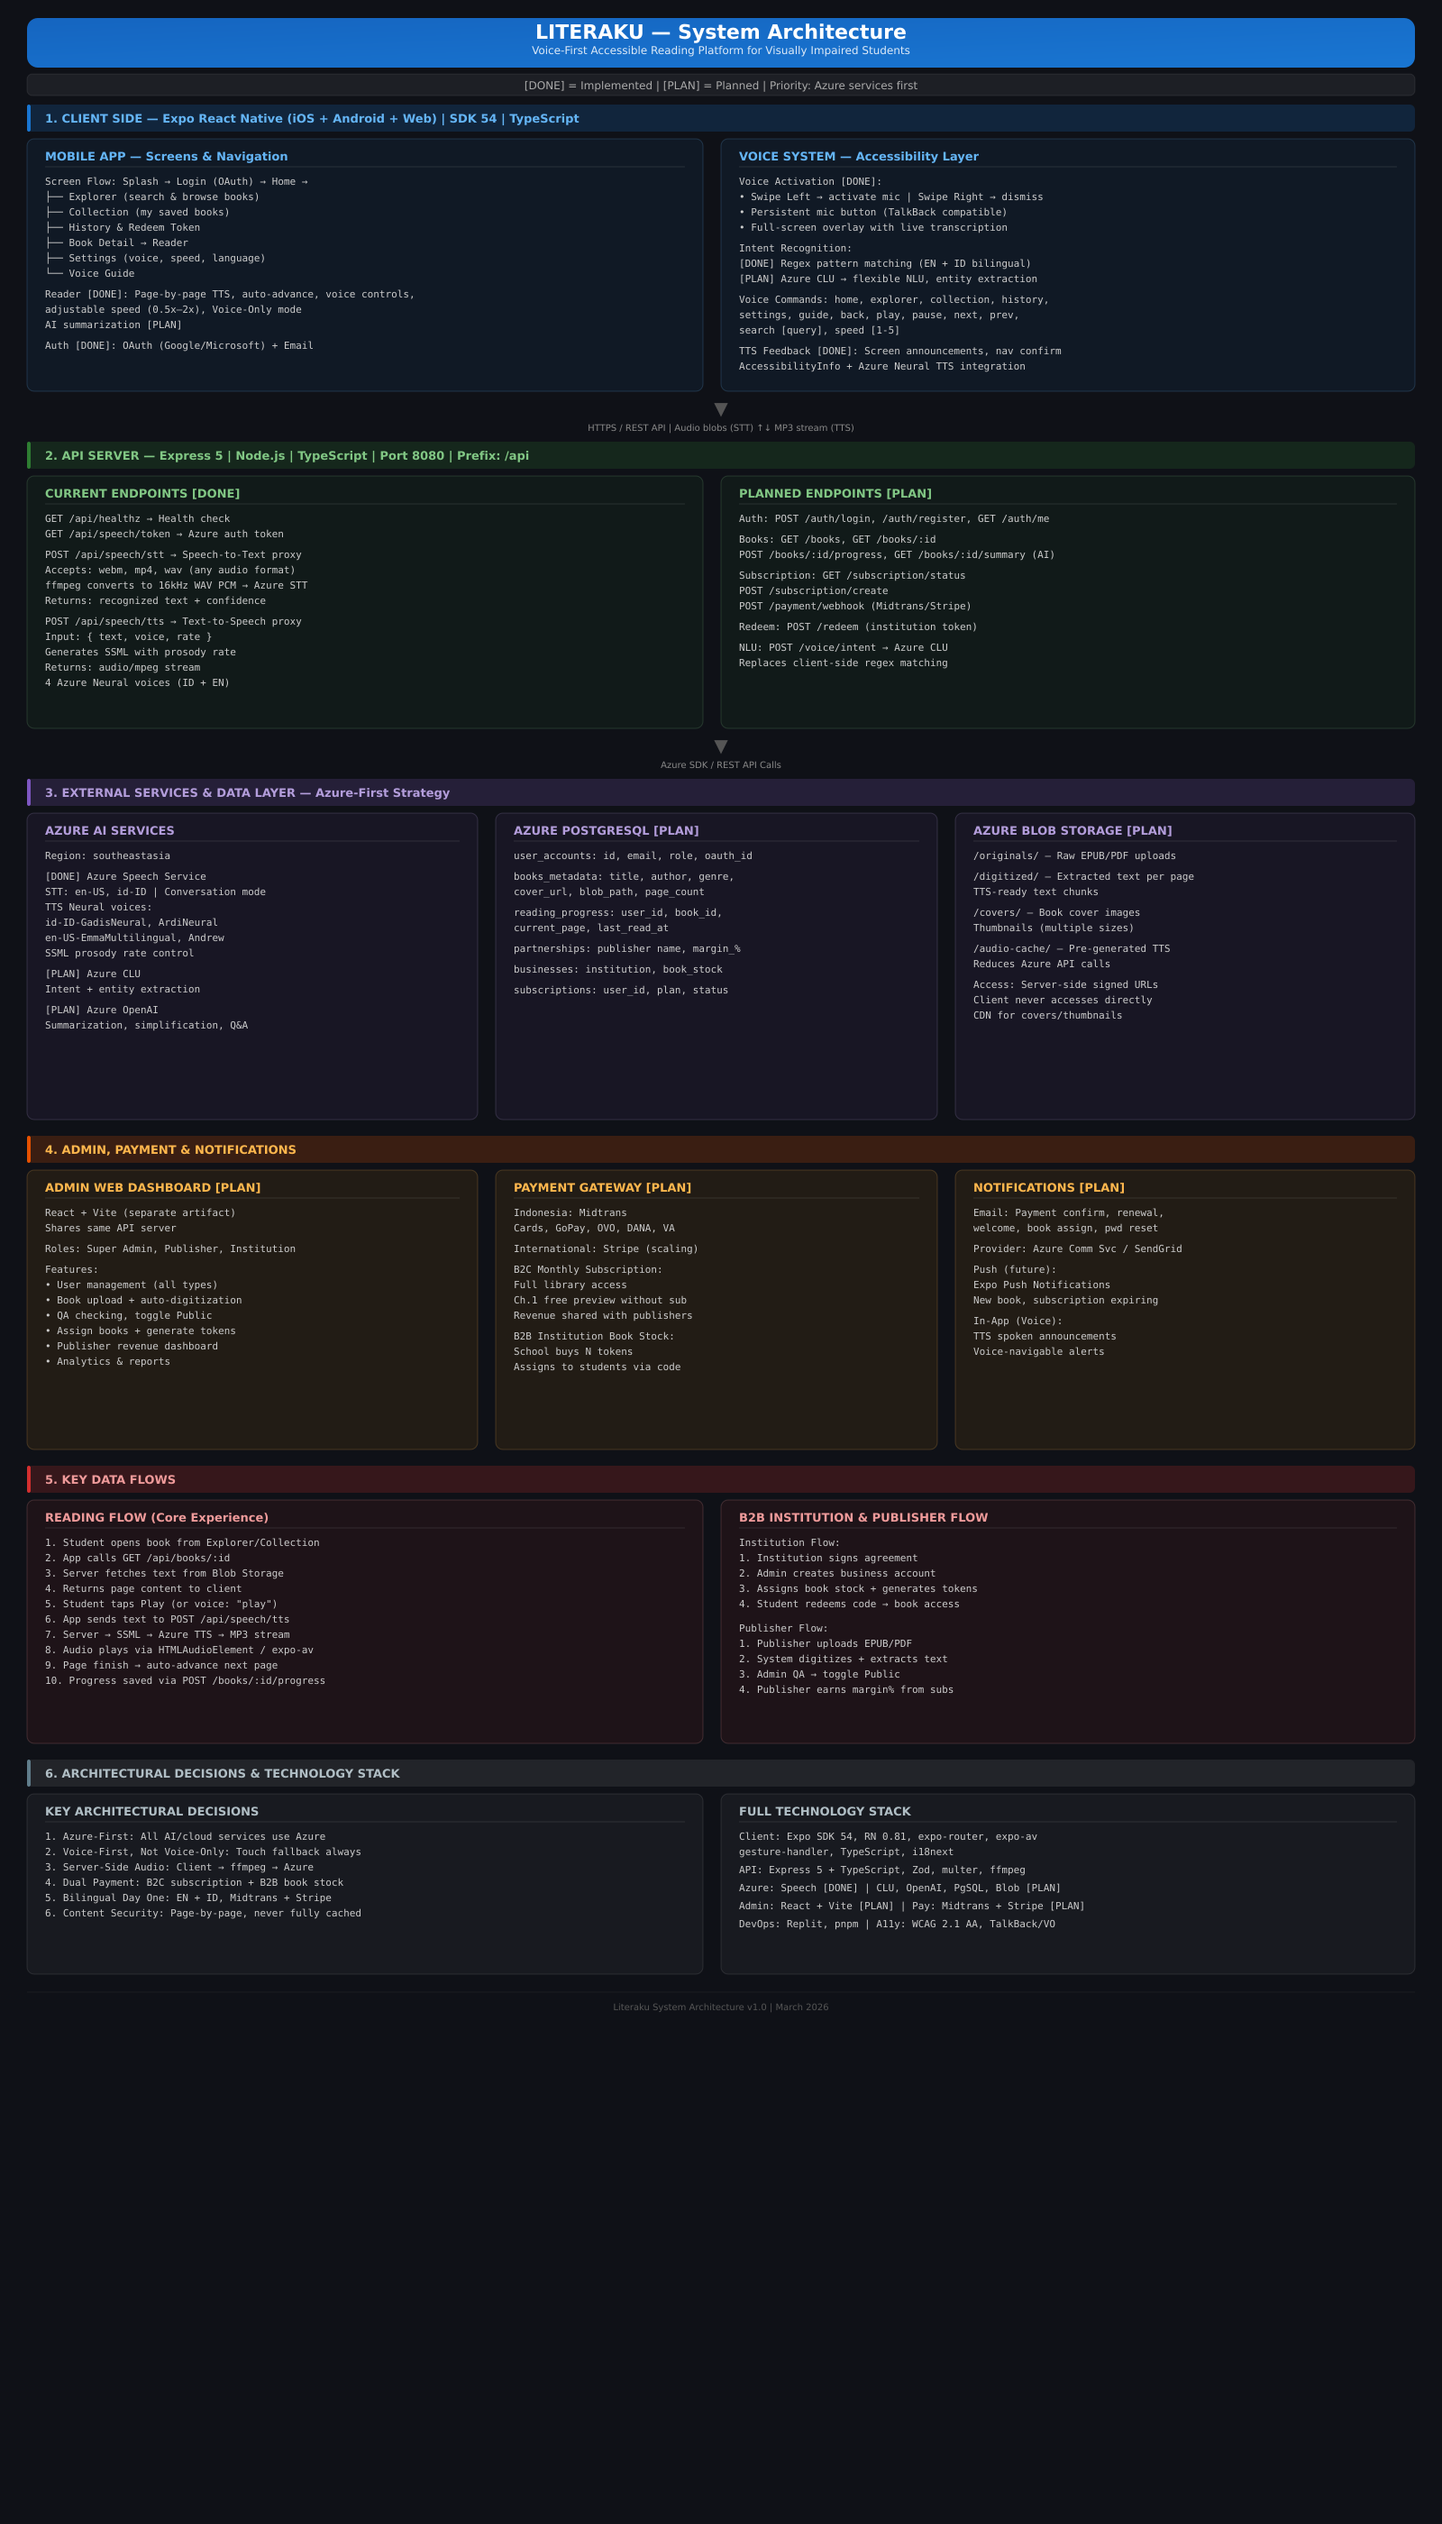
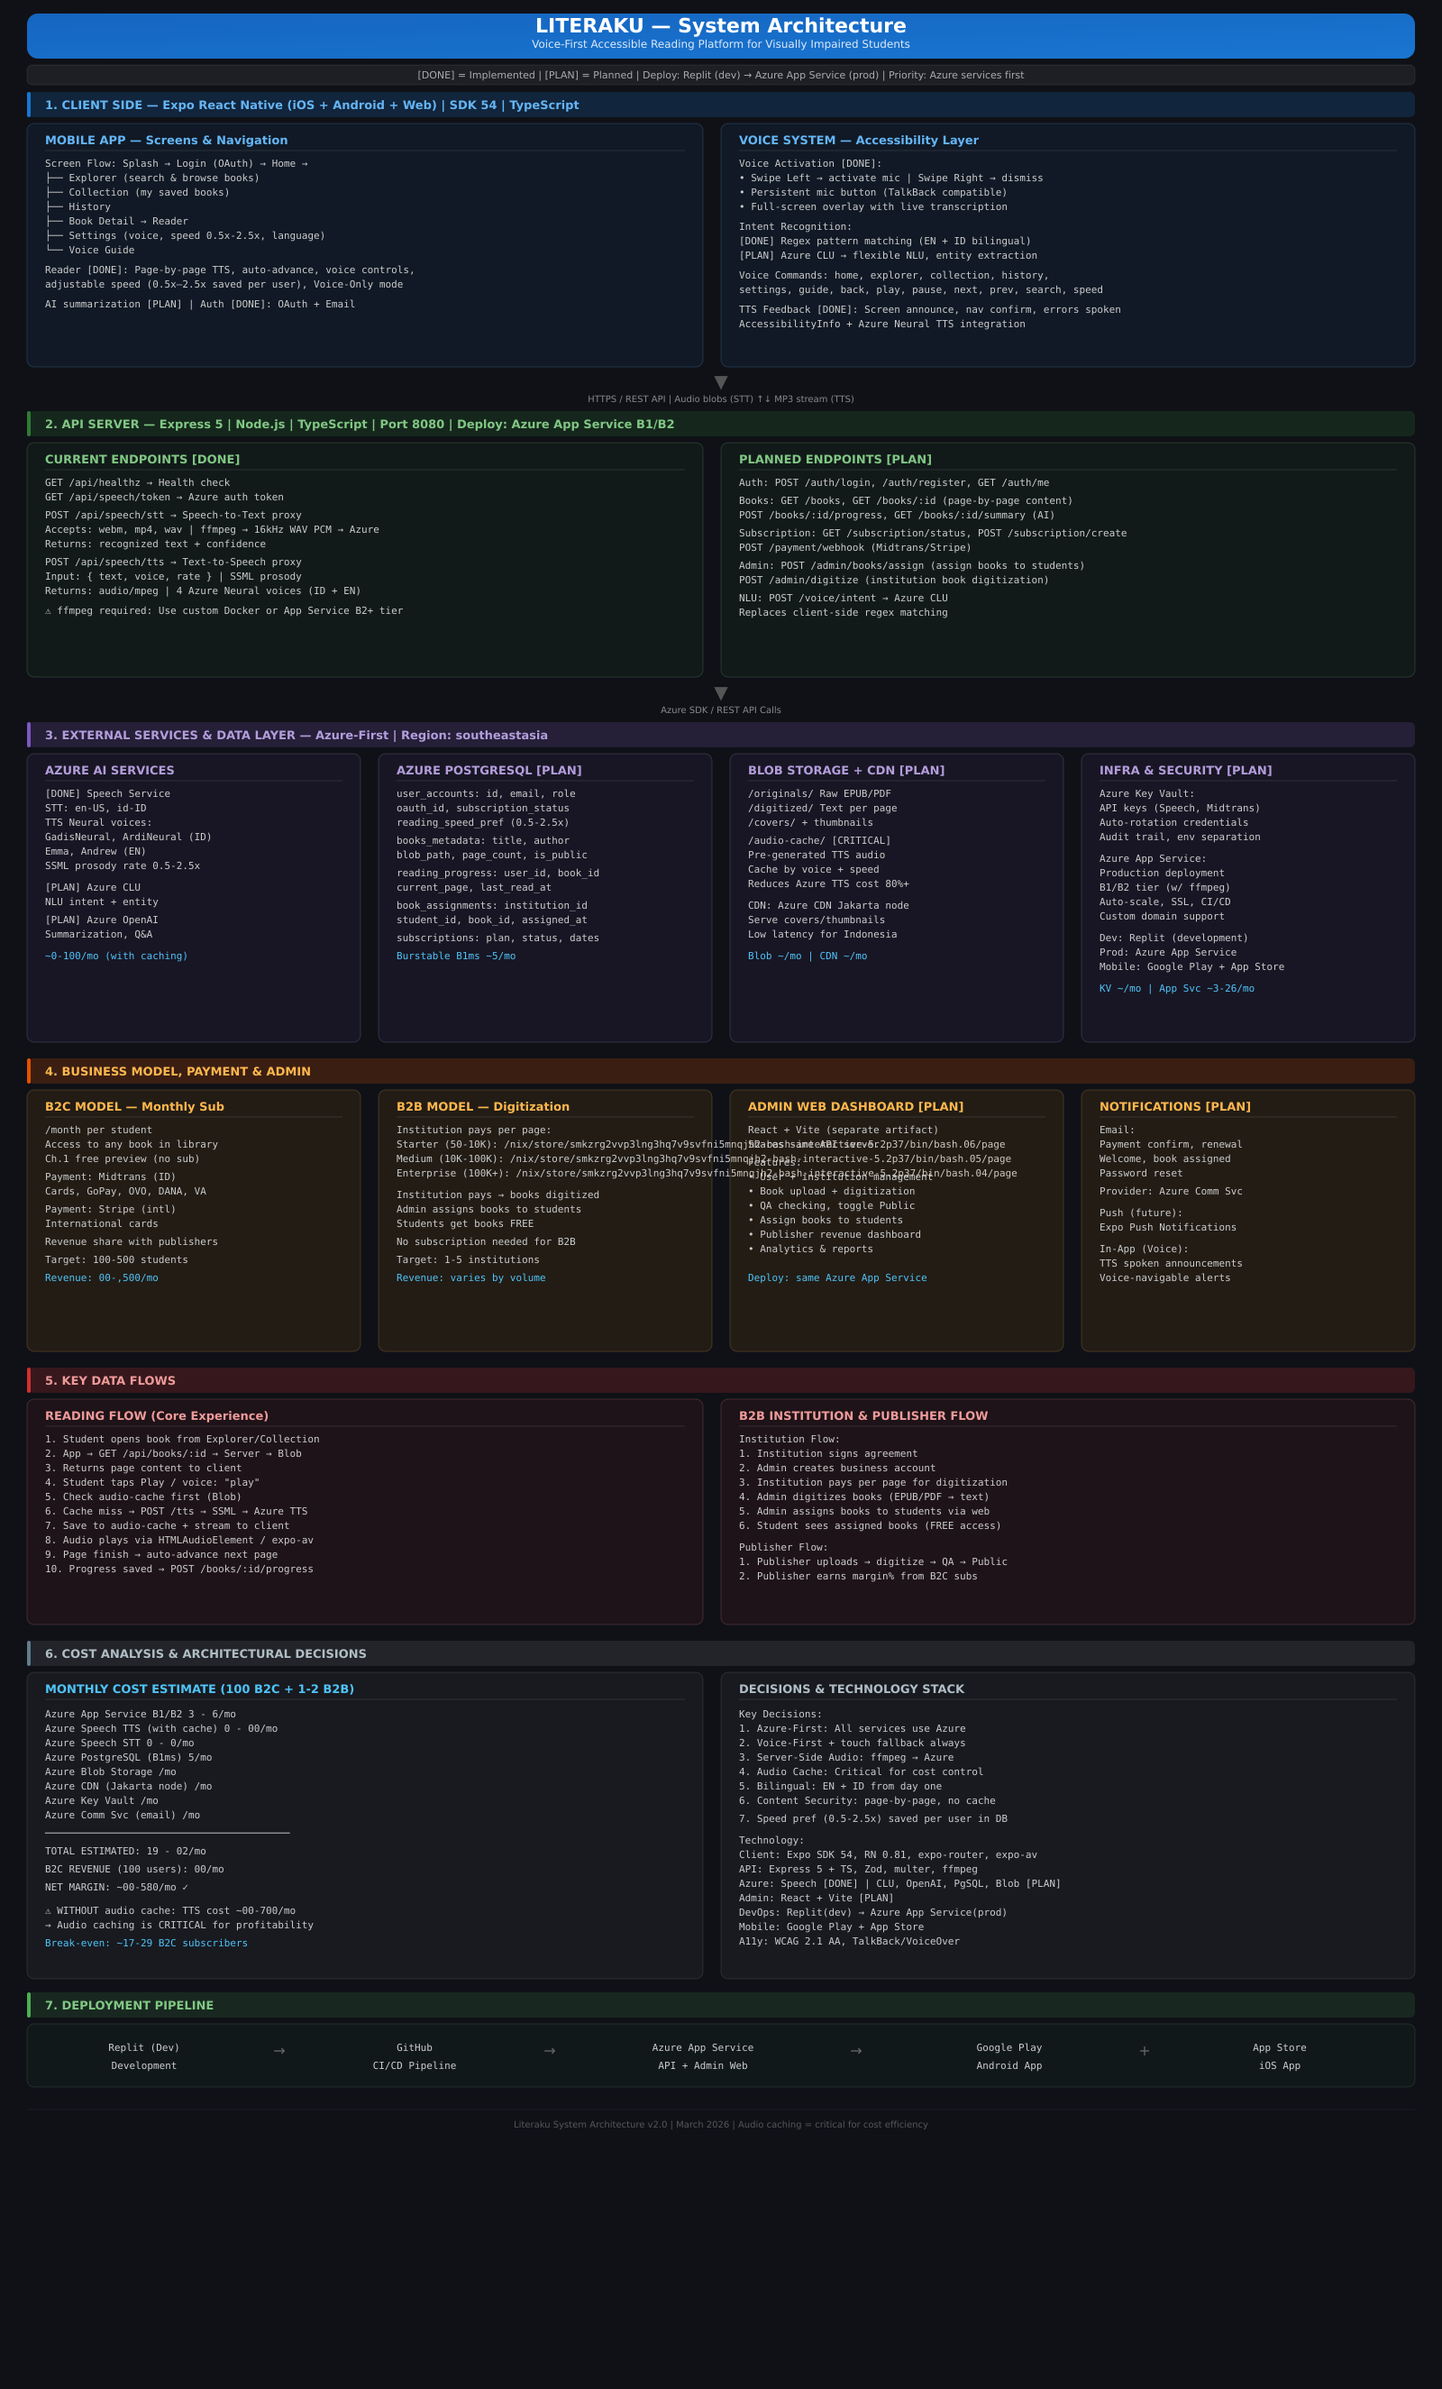
Update architecture and business model details
Update architecture diagram and replit.md to reflect new B2C/B2B business models, Azure infrastructure, and cost analysis.

Replit-Commit-Author: Agent
Replit-Commit-Session-Id: 757323de-a145-4e2c-a63d-d5c64e61808b
Replit-Commit-Checkpoint-Type: full_checkpoint
Replit-Commit-Event-Id: 81917222-2b36-4918-938e-1afe0e50eb94
Replit-Commit-Screenshot-Url: https://storage.googleapis.com/screenshot-production-us-central1/ee2fec00-80a9-4353-ba91-22d7568a13f5/757323de-a145-4e2c-a63d-d5c64e61808b/cmi8NgQ
Replit-Helium-Checkpoint-Created: true

diff --git a/replit.md b/replit.md
@@ -46,7 +46,10 @@ The project is structured as a pnpm monorepo, organizing applications and shared
     - Reader-specific voice commands: play/pause/next/prev page handled via `onTranscription` callback.
     - Explorer/Collection voice commands: search_book and open_book handled via screen-specific callbacks.
     - ANNOUNCE_SPEED = 0.85 for mount/feedback announcements.
-- **Subscription Model**: Chapter 1 free preview; full reading requires subscription. B2B token redemption on History screen.
+- **Business Model**:
+    - B2C: $7/month subscription, access to full library. Ch.1 free preview. Payment via Midtrans (ID) / Stripe (intl).
+    - B2B: Institution pays per page for digitization ($0.06 Starter, $0.05 Medium, $0.04 Enterprise). Admin assigns books to students for FREE via web dashboard (no subscription needed for B2B students).
+    - Revenue share with publishers from B2C subscriptions.
 - **Localization**: Full `en`/`id` translation system (`constants/translations.ts`). Language-aware STT (id-ID vs en-US).
 - **Settings Screen**: `student/settings.tsx` with voice selection, speed control, language toggle, text size, voice-only mode, subscription status, and logout.
 - **State Management**: `ReadingPreferencesContext` for user settings (voice, speed, language, text size, interaction mode, subscription status) and `VoiceActivationContext` for voice interaction state.
@@ -63,6 +66,18 @@ The project is structured as a pnpm monorepo, organizing applications and shared
     - `POST /api/speech/tts` - TTS proxy to Azure with SSML.
 - **Data Validation**: Uses Zod schemas generated from OpenAPI spec for request and response validation.
 - **Build**: Uses esbuild for production bundling.
+- **Deployment**: Replit (dev) → Azure App Service B1/B2 (prod). ffmpeg required for audio conversion.
+
+**Infrastructure (Azure)**:
+- Azure App Service B1/B2: API + Admin Web (~$13-26/mo)
+- Azure Speech Service: STT + TTS with audio caching (~$80-150/mo with cache)
+- Azure PostgreSQL Burstable B1ms: User data, books, assignments (~$15/mo)
+- Azure Blob Storage: Books, covers, audio cache (~$5/mo)
+- Azure CDN: Jakarta node for Indonesia (~$2/mo)
+- Azure Key Vault: Secrets management, planned (~$1/mo)
+- Azure Communication Services: Email notifications (~$3/mo)
+- Total estimated: $119-202/mo at 100 B2C users + 1-2 B2B institutions
+- Audio caching is CRITICAL: reduces TTS cost by 80%+, without it TTS alone costs $500-700/mo
 
 **Database Layer (`lib/db`)**:
 - **ORM**: Drizzle ORM.
